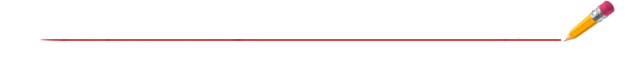
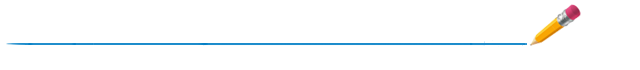
correções de css

Changed region(s): [[0.0, 0.0, 0.9688, 0.6571]]

diff --git a/_css/style.css b/_css/style.css
@@ -347,8 +347,8 @@ div#content{
 div#content a{
         text-decoration:none;
         font-size: 14px;
-        color:#C00;
-        margin-left:10px;}
+        color:#017ec5;
+}
 
 div#content a:hover{
     text-decoration: underline;}
@@ -361,20 +361,21 @@ div#content h1{
         font-size:22px;
         font-style: italic;
         font-weight: normal;
-        border:solid 0px black;
-        background: url(../_imagens/fundo_titulo.png) no-repeat top center;
+        background: url(../_imagens/fundo_titulo.png) no-repeat top left;
         height: 40px;
-        color:#666;
+        color:#000;
+        /*color:#017ec5;*/
         margin:0;        
-        padding:2px;
-        padding-left: 50px;}
+        padding-top:10px;
+        padding-left: 15px;
+}
 
 div#content h2{
         font-size:17px;
         border-bottom:solid 1px #CCC;
         color:#666;
         font-style: italic;
-        margin:20px 0 0 10px;
+        margin:20px 0 5px 10px;
 }
 
 div#content h3{
@@ -440,7 +441,7 @@ div#content1 h3{
         color:#000;
         margin:0;
         padding:5px;
-        }
+}
 
 div#content1 h4{
         font-size:14px;
@@ -514,7 +515,7 @@ form#form_matricula input[type=text], form#form_matricula input[type=password]{
 
 form#form_matricula input:focus, form#form_matricula select:focus, 
 form#form_matricula input:hover, form#form_matricula select:hover{
-        border:solid 1px #900;}
+        border:solid 1px #017ec5;}
 
 form#form_matricula input[type=submit]{
         border:0;
@@ -524,7 +525,7 @@ form#form_matricula input[type=submit]{
         padding:5px 10px 5px 10px;}
 
 form#form_matricula input[type=submit]:hover{
-        background-color:#900;}	
+        background-color:#017ec5;}	
 
 #marq{
         border:solid 1px #666;
@@ -614,11 +615,11 @@ div#video_home b{
         margin-left:10px;}
 
 #form_depoimento input[type=text]:hover{
-        border:solid 1px #900;}
+        border:solid 1px #017ec5;}
 
 #form_depoimento input[type=text]:focus{
         outline:none;
-        border:solid 1px #900;}
+        border:solid 1px #017ec5;}
 
 #form_depoimento textarea{
         border:solid 1px #7f8089;
@@ -628,11 +629,11 @@ div#video_home b{
         min-height:75px;}
 
 #form_depoimento textarea:hover{
-        border:solid 1px #900;}
+        border:solid 1px #017ec5;}
 
 #form_depoimento textarea:focus{
         outline:none;
-        border:solid 1px #900;}
+        border:solid 1px #017ec5;}
 
 #form_depoimento input[type=submit]{
         border:0;
@@ -642,7 +643,7 @@ div#video_home b{
         padding:5px 10px 5px 10px;}
 
 #form_depoimento input[type=submit]:hover{
-        background-color:#900;}
+        background-color:#017ec5;}
 
 #comentarios{
         width: 620px;
@@ -702,11 +703,11 @@ div#video_home b{
         margin-left:10px;}
 
 #form_contato input[type=text]:hover{
-        border:solid 1px #900;}
+        border:solid 1px #017ec5;}
 
 #form_contato input[type=text]:focus{
         outline:none;
-        border:solid 1px #900;}
+        border:solid 1px #017ec5;}
 
 #form_contato textarea{
         border:solid 1px #7f8089;
@@ -716,11 +717,11 @@ div#video_home b{
         min-height:100px;}
 
 #form_contato textarea:hover{
-        border:solid 1px #900;}
+        border:solid 1px #017ec5;}
 
 #form_contato textarea:focus{
         outline:none;
-        border:solid 1px #900;}
+        border:solid 1px #017ec5;}
 
 #form_contato input[type=submit], #form_contato input[type=button]{
         border:0;
@@ -730,7 +731,7 @@ div#video_home b{
         padding:5px 10px 5px 10px;}
 
 #form_contato input[type=submit]:hover, #form_contato input[type=button]:hover{
-        background-color:#900;}
+        background-color:#017ec5;}
 
 
 

diff --git a/views/contato.php b/views/contato.php
@@ -70,11 +70,8 @@
         </form> 
                        
     	<p id="contato">
-            (11)2866-3441
-            <br/><br/>
-            >> <a href="mailto:cursinho@projetochance.org.br">cursinho@projetochance.org.br</a>
-            <br/><br/><br/>
-            <!--<i>Fale com o desenvolvedor: (11)97465-4654</i>-->
+            (11)2866-3441<br/><br/>            
+            <a href="mailto:cursinho@projetochance.org.br">cursinho@projetochance.org.br</a>
         </p>
        
     
